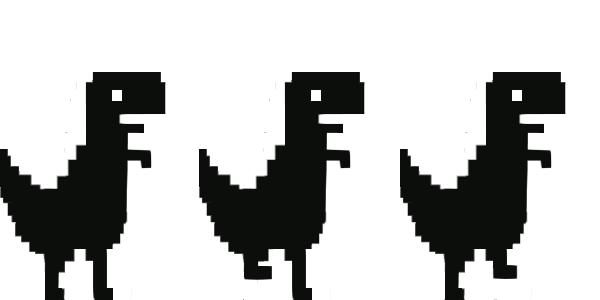
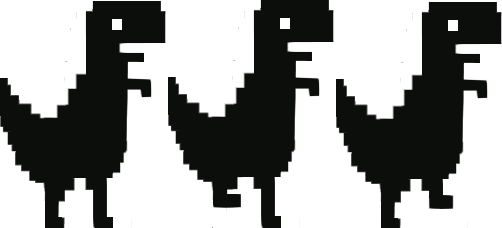
Add files via upload

diff --git a/myGame/cactus.js b/myGame/cactus.js
@@ -3,23 +3,38 @@ class Cactus {
 
 constructor(x){
     this.x = x;
-    this.y = randomNum(140,170);
+    this.y = randomNum(100,170);
+    this.w = randomNum(15,25)
     this.h = canvasHeight-this.y;
-    this.w = 10;
     this.speed = -4;
     this.collision;
+    this.ratio = randomNum(1,10);
+    this.bird;
+    this.birdSprite = new Sprite(257,50,3,1,new Image(),"images/404bird.png",this.x,this.y,10,this.w,this.h);
+    this.cactusSprite = new Sprite(40,52,2,1,new Image(),"images/404cactus.png",this.x,this.y,20,this.w,this.h);
+
 }
 
 
 
 show() {
-    ctx.fillStyle = "black"
+    this.w = 15;
+    this.h = canvasHeight-this.y;
+    ctx.fillStyle ="rgba(0,0,0,0)";
     ctx.fill()
-    ctx.fillRect(this.x, this.y, this.w, this.h)
-
-
+if (this.ratio > 8 || this.y < 130){
+  this.bird = true;
+    this.w = 25;
+    this.h = 20;
+    ctx.fillRect(this.x, this.y, this.w, this.h);
+}
+  else if( this.ratio <= 8){
+    this.bird = false;
+    ctx.fillRect(this.x, this.y, this.w, this.h);
   }
 
+  
+}
 
   move() {
     this.x += this.speed;
@@ -29,7 +44,7 @@ show() {
 
 hitDetection(){
 
-    if (this.x > dino.x + dino.w || this.y > dino.y + dino.h || this.x + cactus[i].w < dino.x || this.y + this.h < dino.y) {
+    if (this.x > dino.x + dino.w || this.y > dino.y + dino.h || this.x + this.w < dino.x || this.y + this.h < dino.y) {
       this.collision = false;
 
     } else {
@@ -43,26 +58,30 @@ hitDetection(){
     } 
 }
 
-removeAndAdd(){
+removeAndAdd(_cactus,_numberof){
   if (this.x < -this.w) {
-    cactus.shift();
-      if (cactus.length < numberOfCactus) {
+    _cactus.shift();
+      if (_cactus.length < _numberof) {
         
-      cactus.push(new Cactus(canvasWidth, this.y, 10, this.h));
+     _cactus.push(new Cactus(canvasWidth, this.y, this.w, this.h));
       
     }
 
   }
-
-
-
-
-
-
-
-
 }
 
+animate(){
+if (this.bird == true){
+this.birdSprite.updateFrame();
+this.birdSprite.draw(this.x, this.y,this.w,this.h);
+}
+
+else{
+  this.cactusSprite.updateFrame();
+  this.cactusSprite.draw(this.x, this.y,this.w,this.h);
+  }
+
+}
 
 
 

diff --git a/myGame/dino.js b/myGame/dino.js
@@ -10,16 +10,22 @@ this.dir = 0;
 this.jumped = false;
 this.ducking = false;
 this. jumpHeight = 40;
-
+this.duckHeight = 40;
+this.runSprite = new Sprite(502,228,3,1,new Image(),"images/404dino.png",this.x,this.y,10,this.w,this.h);
+this.jumpSprite = new Sprite(164,230,1,1,new Image(),"images/404jump.png",this.x,this.y,40,this.w,this.h);
+this.duckSprite = new Sprite(559,99,3,1,new Image(),"images/404duck.png",this.x,this.y,10,this.w,this.duckHeight);  
+this.jumpSound = new Sound("audio/jump.mp3");
+this.deathSound= new Sound("audio/death.mp3");
 }
 
 show(){
-ctx.fillStyle="green";
+ctx.fillStyle ="rgba(0,0,0,0)";
 ctx.fill();
 ctx.fillRect(this.x,this.y,this.w,this.h);
 }
 
 jump() {
+  if(this.ducking == false){
     this.y += this.dir;
   if (this.y <= this.jumpHeight) {
     this.dir = 3;
@@ -27,6 +33,7 @@ jump() {
   if (this.y == 140 ) {
     this.dir = 0;
 this.jumped = false;
+  }
   }
 }
 
@@ -38,14 +45,34 @@ if(e.key=="ArrowDown" && this.jumped == false){
  if(this.ducking == false) {
     this.y = 140;
     this.h = 60;
-    this.ducking = true;
+    this.w = 30;
+} else if(this.ducking == true){
+    this.y = 160;
+    this.h = 35;
+    this.w = 60;
 
-  } else if(this.ducking == true){
-    this.y = 170;
-    this.h = 40;
-    this.ducking = false
   }
 }
+
+}
+
+animate(){
+  if(this.jumped == false && this.ducking == false){
+    this.runSprite.updateFrame();
+    this.runSprite.draw(this.x, this.y,this.w,this.h);
+} else if(this.jumped == true){
+    this.jumpSprite.updateFrame();
+    this.jumpSprite.draw(this.x, this.y,this.w,this.h);
+}
+else if (this.ducking = true){
+    this.duckSprite.updateFrame();
+    this.duckSprite.draw(this.x, this.y,this.w,40);
+
+}
+
+
+
+
 }
 
 

diff --git a/myGame/main.js b/myGame/main.js
@@ -10,14 +10,17 @@ let dino;
 let numberOfCactus = 2;
 let cactus = [];
 let score;
+let runSprite;
+let jumpSprite;
+let duckSprite;
 // set up function
 function setup(){
-  score = 0;
+score = 0;
 dino = new Dino();
 for (i = 0; i < numberOfCactus; i++) {
     cactus[i] = new Cactus(canvasWidth + i * 300);
 }
-  
+
 
 }
 
@@ -35,16 +38,14 @@ function draw(){
         cactus[i].show();
         cactus[i].move();
         cactus[i].hitDetection(); 
-        cactus[i].removeAndAdd();
+        cactus[i].removeAndAdd(cactus,numberOfCactus);
+        cactus[i].animate();
+        console.log(cactus[i].y,cactus[i].x,cactus[i].w,cactus[i].h);
       }
-
-
       updateScore();
- 
-      dino.show();
-      dino.jump();
-
-      
+        dino.show();
+        dino.jump();
+        dino.animate();
     
 }
 // draws background
@@ -66,9 +67,12 @@ return Math.floor(Math.random()*(max-min + 1) + min)
 // sets dinos jump direction
 function jumpDirection(e){
     if(e.key == "ArrowUp" && dino.jumped == false){
+        dino.jumpSound.play();
         dino.dir = -3;
         dino.jumped = true;
+
         }
+       
         
         }
 
@@ -107,6 +111,7 @@ function startAnimation(){
 
 // end game
     function endGame(){
+    dino.deathSound.play();
     ctx.fillStyle = "black";
     ctx.fill();
     ctx.font = "40px Arial";

diff --git a/myGame/sprite.js b/myGame/sprite.js
@@ -1,0 +1,44 @@
+
+class Sprite {
+    constructor(sheetWidth,sheetHeight,cols,rows,character,src,x,y,totalFrame, canWidth, canHeight){
+      this.srcX;
+      this.srcY;
+        
+        this.sheetWidth = sheetWidth;
+        this.sheetHeight = sheetHeight;
+        this.cols = cols;
+        this.rows = rows;
+        this.width = sheetWidth / cols;
+        this.height = sheetHeight / rows;
+        this.currentFrame = 0;
+        this.character = character;
+        this.character.src = src
+        this.x = x;
+        this.y = y;
+        this.numOfFrames = 0;
+        this.totalFrame = totalFrame;
+        this.canWidth = canWidth;
+        this.canHeight = canHeight;
+    }
+    
+    
+    updateFrame(){
+    this.srcX = this.currentFrame * this.width;
+    this.srcY = 0;
+    this.numOfFrames++
+    if(this.numOfFrames == this.totalFrame){
+    this.currentFrame = ++this.currentFrame % this.cols;
+    this.numOfFrames = 0;
+    }
+    
+    
+    }
+    
+    draw(x,y,w,h){
+    ctx.drawImage(this.character,this.srcX,this.srcY,this.width,this.height,x,y,w,h);
+    }
+    
+    
+    
+    }
+    

diff --git a/myGame/sounds.js b/myGame/sounds.js
@@ -1,0 +1,23 @@
+class Sound{
+    constructor(src){
+    this.noise = document.createElement("audio");
+    this.noise.src = src;
+    this.noise.setAttribute("preload", "auto");
+    this.noise.setAttribute("controls", "none");
+    this.noise.style.display = "none";
+    document.body.appendChild(this.noise);
+}
+play(){
+this.noise.play();
+
+}
+
+stop(){
+this.noise.pause();
+
+
+
+}
+
+
+}

diff --git a/myGame/index.html b/myGame/index.html
@@ -15,8 +15,11 @@
         <div id="button_container">
         <button id="start_btn">Start/reset</button>
     </div>
+    
         <script src="cactus.js"></script>
         <script src="dino.js"></script>
+        <script src="sprite.js"></script>
+        <script src="sounds.js"></script>
     <script src="main.js"></script>
     
    

diff --git a/myGame/style.css b/myGame/style.css
@@ -17,7 +17,7 @@ justify-content: center;
 
   
   canvas {
-border: 10px solid black;
+border: 5px solid black;
   }
 
 #button_container{
